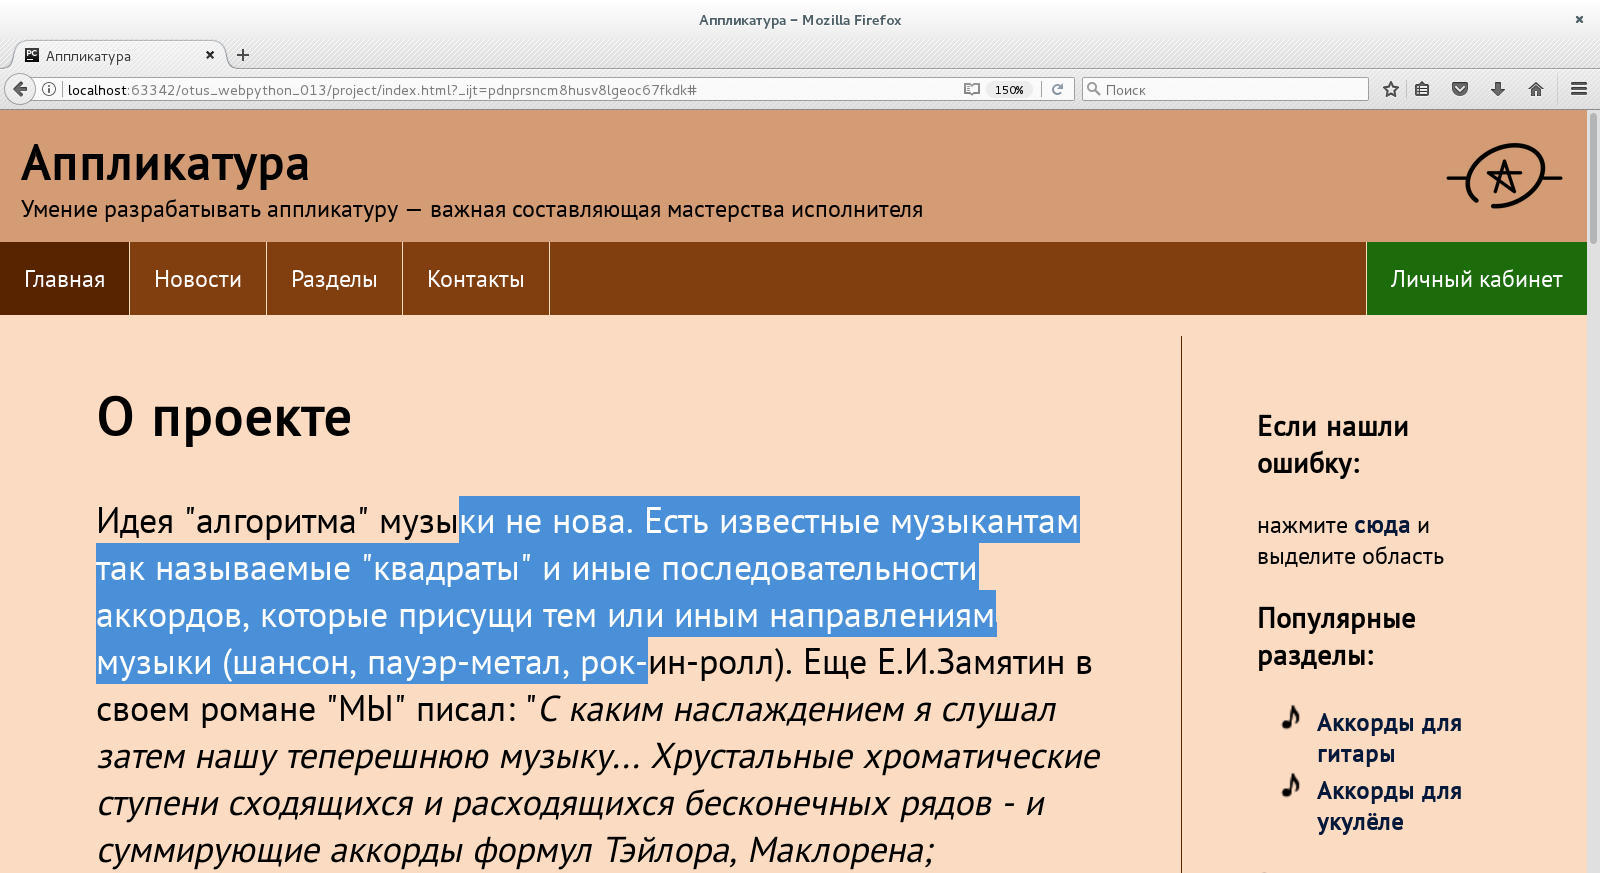
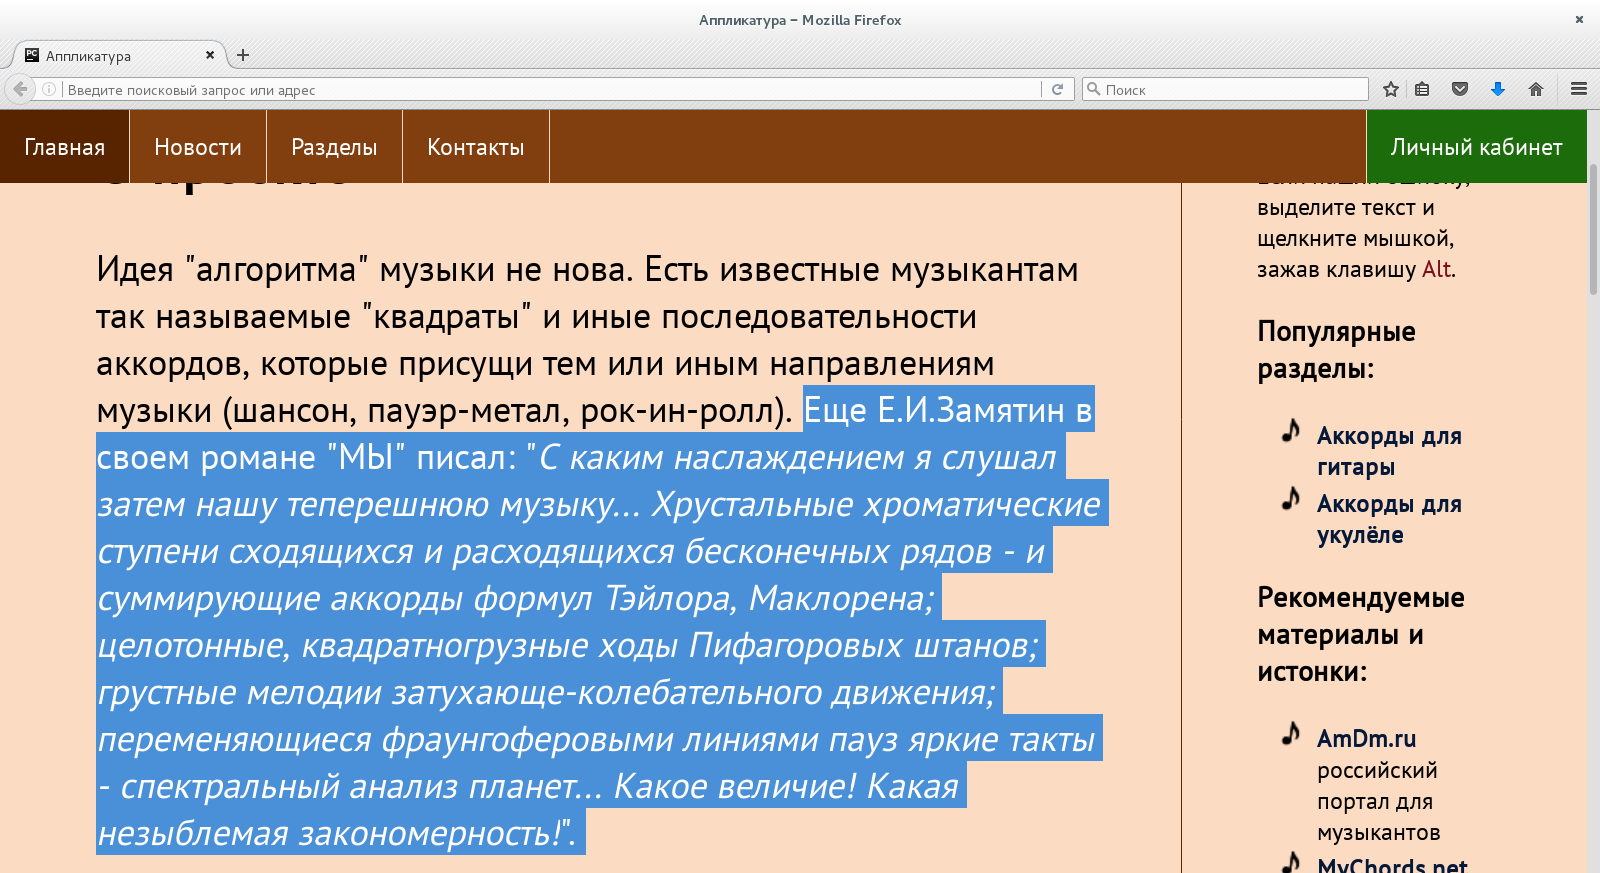
описание нового подхода к BugReport

diff --git a/README.md b/README.md
@@ -52,33 +52,23 @@
 
 ### Результаты ДЗ занятия 15
 
-#### Демонстрация начала режима BugReport:
+#### Сообщение о работе BugReport:
 
-Нажимаем "сюда" (можно сделать кнопочку On\Off, но сути не меняет)
+см. "Если нашли ошибку, выделите текст и щелкните мышкой, зажав клавишу Alt."
 
-![index](https://raw.githubusercontent.com/BorisPlus/otus_webpython_013/master/README.files/images/screenshots/js_015/click.png "Title")
+![about](https://raw.githubusercontent.com/BorisPlus/otus_webpython_013/master/README.files/images/screenshots/js_015/about.png "Title")
 
-#### Приветсвенное сообщение режима BugReport:
-
-"А теперь выделите то, что Вы считаете ошибкой."
-
-![first_message](https://raw.githubusercontent.com/BorisPlus/otus_webpython_013/master/README.files/images/screenshots/js_015/first_message.png "Title")
-
-#### Выделяете мышкой:
+#### Выделите мышкой:
 
 ![mark](https://raw.githubusercontent.com/BorisPlus/otus_webpython_013/master/README.files/images/screenshots/js_015/mark.png "Title")
 
-Автоматически после отпускания мыши появится окно
+#### Зажмите клавишу Alt и щелкните мышкой по ранее выделенному:
 
 ![promt](https://raw.githubusercontent.com/BorisPlus/otus_webpython_013/master/README.files/images/screenshots/js_015/promt.png "Title")
 
-#### Введите дополнительные данные:
+#### Благодарственное сообщение:
 
-![promt_input](https://raw.githubusercontent.com/BorisPlus/otus_webpython_013/master/README.files/images/screenshots/js_015/promt_input.png "Title")
-
-#### Крайнее сообщение режима BugReport:
-
-![last_message](https://raw.githubusercontent.com/BorisPlus/otus_webpython_013/master/README.files/images/screenshots/js_015/last_message.png "Title")
+![thanks_message](https://raw.githubusercontent.com/BorisPlus/otus_webpython_013/master/README.files/images/screenshots/js_015/thanks_message.png "Title")
 
 ## Авторы
 
